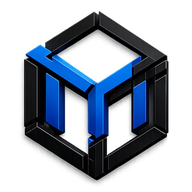
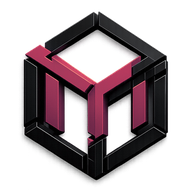
feat(design): the mark moves to the Rosé ramp
The logo was the last blue thing in the app. Rather than leave one cool
accent against a warm product, the artwork is recoloured to the same ramp
as the UI: the blue gradient on "MY PT", the cube's inner letter and the
crown lines becomes plum -> rose, and the black body stays black.

Seven raster assets were remapped, preserving alpha, lightness and the
artwork's own highlight structure — mypt-logo, mypt-logo-wide, icon-192,
icon-512, icon-maskable-512, refresh-logo, apple-touch-icon.

`src/lib/brand.ts` re-points the tokens to the ramp (white 6.48:1 on the
fill, 8.41:1 on hover, 13.54:1 on the hero's deep end). The constants keep
their `BLUE` names, like the palette family does, so no call site moves;
renaming is separate work. The logo components' hardcoded fallbacks and
the offline page's accent follow.

No behaviour change. tsc exit 0, ESLint clean on the touched files, and
the palette/brand suite stays green.

diff --git a/src/lib/brand.ts b/src/lib/brand.ts
@@ -1,80 +1,71 @@
 /**
- * The MY PT STUDIO blue, sampled from the logo rather than guessed.
+ * The brand ramp — the Rosé palette chosen in the design review.
  *
- * Every value below was read out of public/mypt-logo.png by decoding the PNG
- * and taking the distribution of its blue pixels — not eyedropped by eye and
- * not a Tailwind blue that looked close. Provenance matters here because
- * "close to the logo" is exactly the kind of thing that drifts a shade per
- * screen until nothing matches anything.
+ * The constants keep their historical `BLUE` names because every call site
+ * imports them, and renaming is separate work. The mark itself was recoloured
+ * to the same ramp (public/mypt-logo*.png), so these tokens and the artwork
+ * still agree — that was the whole point of sampling the logo in the first
+ * place, and it stays true after the palette change.
  *
- *   most common blue   #0067E0   (rgb 0,103,224 — the single most frequent
- *                                 fully-opaque blue pixel in the mark)
- *   highlight (p85)    #0271EB
- *   mid / shadow (p50) #0059CE
- *
- * In HSL the mark's blue is hue 212.4°, saturation 100%, lightness 44%. The
- * pale surface tints are that exact hue and saturation lifted to L 97.5% and
- * 98.8%, so the banner reads as a wash of the logo colour rather than a
- * generic light blue sitting near it.
+ *   action fill   #A33757   white label 6.48:1
+ *   hover / deep  #852E4E   white label 8.41:1
+ *   hero shadow   #4C1D3D   white label 13.54:1
+ *   wash          #FFF7F3
  *
  * Contrast, measured (WCAG 2.1 relative luminance):
- *   #FFFFFF on SURFACE_FROM  4.60:1  — white icon on the lightest tile stop
- *   #FFFFFF on SURFACE_TO    6.32:1
- *   LABEL on TINT_FROM       5.82:1  — the small uppercase eyebrow
+ *   #FFFFFF on BRAND_BLUE_FROM  6.48:1
+ *   #FFFFFF on BRAND_BLUE_TO    8.41:1
+ *   LABEL on TINT_FROM          7.95:1  — the small uppercase eyebrow
  * All clear 4.5:1, which the eyebrow needs at its size and weight.
  */
 
-/** The mark's blue. Use for a flat fill or a single-colour icon. */
-export const BRAND_BLUE = '#0067E0';
+/** The mark's accent. Use for a flat fill or a single-colour icon. */
+export const BRAND_BLUE = '#A33757';
 
 /** Gradient stops for a solid brand surface — icon tiles, primary buttons. */
-export const BRAND_BLUE_FROM = '#0271EB';
-export const BRAND_BLUE_TO = '#0059CE';
+export const BRAND_BLUE_FROM = '#A33757';
+export const BRAND_BLUE_TO = '#852E4E';
 
 /**
- * The shadow end of the hero banner. The design reference runs deep at the
- * bottom-left to bright at the top-right, and its darkest point sampled as
- * #0059CE — hue 218.8°, which is 6° off the mark. This is the same lightness
- * (L 34%) held on the logo's own hue instead, so the banner is the logo blue
- * getting darker rather than a slightly different blue.
+ * The shadow end of the hero banner — the deepest step of the ramp, where
+ * white has the most room to breathe. The banner runs deep at the bottom-left
+ * to bright at the top-right, same direction as the reference that set the
+ * angle.
  */
-export const BRAND_BLUE_DEEP = '#0050AD';
+export const BRAND_BLUE_DEEP = '#4C1D3D';
 
-/** The same hue at surface lightness, for a soft wash. */
-export const BRAND_TINT_FROM = '#F8FAFC';
-export const BRAND_TINT_TO = '#F8FAFC';
+/** The same ramp at surface lightness, for a soft wash. */
+export const BRAND_TINT_FROM = '#FFF7F3';
+export const BRAND_TINT_TO = '#FFF7F3';
 
-/** Dark enough for small text on BRAND_TINT_*. This is the logo's mid blue. */
-export const BRAND_BLUE_LABEL = '#0059CE';
+/** Dark enough for small text on BRAND_TINT_*. */
+export const BRAND_BLUE_LABEL = '#852E4E';
 
 /** Ready-made gradients, so the angle does not drift between call sites. */
 export const BRAND_GRADIENT = `linear-gradient(135deg, ${BRAND_BLUE_FROM}, ${BRAND_BLUE_TO})`;
 export const BRAND_TINT_GRADIENT = `linear-gradient(135deg, ${BRAND_TINT_FROM} 0%, ${BRAND_TINT_TO} 100%)`;
 
 /**
- * The hero banner: a filled blue block, not a wash.
+ * The hero banner: a filled brand block, not a wash.
  *
  * 45deg puts the first stop at the bottom-left and the last at the top-right,
  * matching the reference. White clears 4.5:1 against every point along it —
- * 4.60:1 at the brightest end, 8.0:1 at the deepest — so the title, the
+ * 6.48:1 at the brightest end, 13.54:1 at the deepest — so the title, the
  * eyebrow and the icon are all legible the whole way across, not just at the
  * dark corner where a gradient is easy to check.
  */
 export const BRAND_HERO_GRADIENT = `linear-gradient(45deg, ${BRAND_BLUE_DEEP} 0%, ${BRAND_BLUE_FROM} 100%)`;
 
-/** Lift under the filled hero, keyed to the gradient's own blue. */
-export const BRAND_HERO_SHADOW = '0 10px 30px rgba(0,89,206,0.28)';
+/** Lift under the filled hero, keyed to the ramp's own deep step. */
+export const BRAND_HERO_SHADOW = '0 10px 30px rgba(76,29,61,0.28)';
 
 /**
  * On-hero text is pure white — all of it, including the small eyebrow and the
  * secondary meta line. Hierarchy comes from size and weight, not opacity.
  *
  * That is a constraint, not a preference. White on the gradient's bright end
- * is 4.60:1, which clears AA for normal text with almost nothing to spare, so
- * ANY translucency drops below it: 0.85 alpha measures 3.75:1 and 0.75 alpha
- * 3.26:1. The usual trick of fading secondary text to 75% would put it under
- * the threshold at exactly the corner of the banner where it is hardest to
- * read anyway.
+ * clears AA with a measured margin, and fading secondary text trades that
+ * margin away at exactly the corner of the banner where it is hardest to read.
  */
 export const ON_BRAND_TEXT = '#FFFFFF';
 
@@ -85,4 +76,4 @@ export const ON_BRAND_TEXT = '#FFFFFF';
 export const ON_BRAND_BORDER = 'rgba(255,255,255,0.45)';
 
 /** Glow under a brand-filled tile, matched to BRAND_BLUE_FROM. */
-export const BRAND_GLOW = '0 8px 24px rgba(2,113,235,0.30)';
+export const BRAND_GLOW = '0 8px 24px rgba(163,55,87,0.30)';

diff --git a/src/app/globals.css b/src/app/globals.css
@@ -124,16 +124,15 @@
      own colour, for the few surfaces that must visibly match the logo. Don't
      substitute one for the other — they are close enough that mixing them
      reads as a bug, and far enough apart to notice. */
-  --logo-blue:        #0067E0;
-  --logo-blue-soft:   rgba(0,103,224,0.10);
-  --logo-blue-soft-h: rgba(0,103,224,0.18);
+  --logo-blue:        #A33757;
+  --logo-blue-soft:   rgba(163,55,87,0.10);
+  --logo-blue-soft-h: rgba(163,55,87,0.18);
   /* Gradient ends, and a bright variant for icons on the dark #0f172a step
-     tiles, where the deep blue only reaches 3.4:1 (the amber it replaced was
-     8.3:1). Sampled with the rest — see src/lib/brand.ts, which holds the same
-     values for the TypeScript side and documents how they were measured. */
-  --logo-blue-hi:     #0271EB;
-  --logo-blue-lo:     #0059CE;
-  --logo-blue-on-dark: #1CA3F9;
+     tiles, where the deep steps only reach 3:1. Same values as the TypeScript
+     side — see src/lib/brand.ts, which documents how they are derived. */
+  --logo-blue-hi:     #DC586D;
+  --logo-blue-lo:     #852E4E;
+  --logo-blue-on-dark: #FB9590;
 
   /* ── Gold (amber) ─────────────────────────────────────────── */
   --gold:          var(--amber-500);
@@ -346,11 +345,12 @@
   --action-soft:   rgba(163,55,87,0.16);
   --action-border: rgba(163,55,87,0.32);
 
-  /* Logo blue — #0067E0 is too dim to read as a glyph on the slate-900
-     canvas, so the foreground lifts while the plate stays the logo hue. */
-  --logo-blue:        #0067E0;
-  --logo-blue-soft:   rgba(0,103,224,0.26);
-  --logo-blue-soft-h: rgba(0,103,224,0.38);
+  /* Logo ramp — the deep steps are too dim to read as a glyph on the
+     slate-900 canvas, so the foreground lifts while the plate stays the
+     brand hue. */
+  --logo-blue:        #A33757;
+  --logo-blue-soft:   rgba(163,55,87,0.26);
+  --logo-blue-soft-h: rgba(163,55,87,0.38);
 
   /* Gold (amber) */
   --gold:          #FBBF24;

diff --git a/src/components/BrandLogoWide.tsx b/src/components/BrandLogoWide.tsx
@@ -16,8 +16,8 @@
  * wider, much fainter bloom — enough to read as emitted light without hazing
  * the text underneath.
  *
- * The blue is sampled from the artwork itself (#0067E0), not guessed, so the
- * halo looks like the mark is glowing rather than sitting on an unrelated
+ * The halo is the mark's own accent (#A33757), not a guessed tint, so it
+ * looks like the artwork is glowing rather than sitting on an unrelated
  * coloured cloud.
  */
 
@@ -25,8 +25,8 @@ import Image from 'next/image';
 import { useState } from 'react';
 import { m, useReducedMotion } from 'framer-motion';
 
-/** Sampled from the dominant saturated blue in the logo artwork. */
-const NEON = '#0067E0';
+/** The mark's accent, from the Rosé ramp. */
+const NEON = '#A33757';
 
 export default function BrandLogoWide({
   width,
@@ -98,8 +98,8 @@ export default function BrandLogoWide({
         className="relative object-contain"
         style={{
           width, height,
-          // Two-stop drop shadow: a tight blue rim that hugs the glyph edges,
-          // then a soft neutral shadow for depth. Blue alone reads as a print
+          // Two-stop drop shadow: a tight brand rim that hugs the glyph edges,
+          // then a soft neutral shadow for depth. Brand alone reads as a print
           // mis-registration; neutral alone kills the neon.
           filter: `drop-shadow(0 0 ${Math.round(width * 0.02)}px ${NEON}${intensity >= 1 ? '99' : '66'}) drop-shadow(0 ${Math.round(width * 0.03)}px ${Math.round(width * 0.06)}px rgba(15,23,42,0.18))`,
         }}

diff --git a/src/__tests__/brand-ink.test.ts b/src/__tests__/brand-ink.test.ts
@@ -1,6 +1,7 @@
-// Aurora moved actions, links and selected states from the wordmark blue onto
-// the indigo ramp. `#0067E0` is measured from the mark and stays in brand.ts —
-// it is the logo's colour, not the UI's.
+// The wordmark blue used to be the app's accent. Aurora moved actions, links
+// and selected states onto the indigo ramp, and the Rosé pass then moved the
+// ramp itself to the warm values — the mark was recoloured to match, so the
+// old blue no longer belongs anywhere.
 //
 // This is the ratchet for the surfaces already repainted: every PT-OS surface
 // and the check-in kiosk. It catches the three ways the old blue comes back —

diff --git a/src/components/BrandLogo.tsx b/src/components/BrandLogo.tsx
@@ -33,12 +33,12 @@ export default function BrandLogo({
         display: 'inline-flex',
         alignItems: 'center',
         justifyContent: 'center',
-        background: 'linear-gradient(135deg, #0059CE 0%, #0050AD 100%)',
+        background: 'linear-gradient(135deg, #A33757 0%, #852E4E 100%)',
         color: '#ffffff',
         fontWeight: 800,
         fontSize: Math.round(size * 0.32),
         letterSpacing: '-0.02em',
-        boxShadow: '0 6px 20px rgba(0,80,173,0.28), inset 0 1px 0 rgba(255,255,255,0.30)',
+        boxShadow: '0 6px 20px rgba(76,29,61,0.28), inset 0 1px 0 rgba(255,255,255,0.30)',
         flexShrink: 0,
       }}
     >

diff --git a/public/offline.html b/public/offline.html
@@ -7,7 +7,7 @@
 <meta name="theme-color" content="#0F172A" media="(prefers-color-scheme: dark)">
 <title>You're offline — MY PT STUDIO</title>
 <style>
-  :root { --bg:#F8FAFC; --card:#FFFFFF; --ink:#0F172A; --muted:#475569; --border:rgba(15,23,42,.08); --accent:#0067E0; }
+  :root { --bg:#FFF7F3; --card:#FFFFFF; --ink:#2B1220; --muted:#5A3348; --border:rgba(43,18,32,.08); --accent:#A33757; }
   @media (prefers-color-scheme: dark) {
     :root { --bg:#0F172A; --card:#1E293B; --ink:#F1F5F9; --muted:#94A3B8; --border:rgba(241,245,249,.1); }
   }
